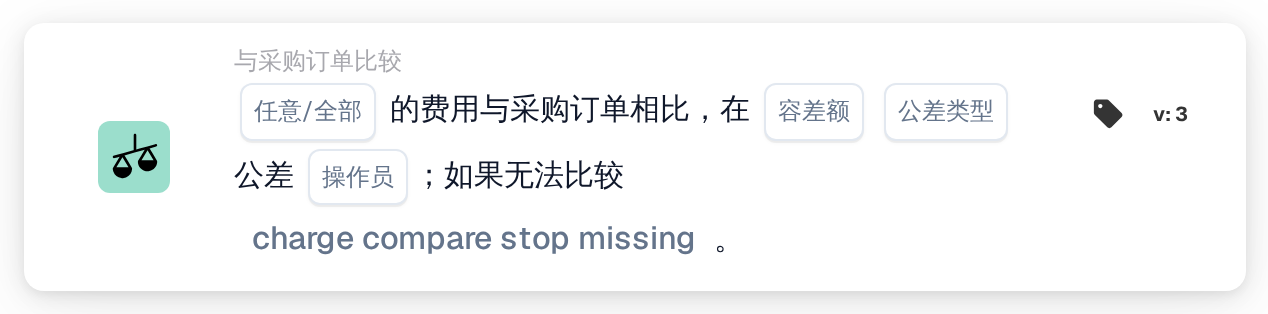
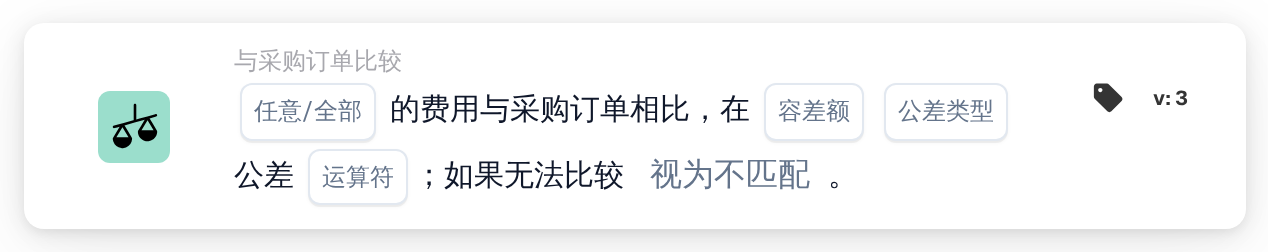
[Documentation_Workflow_Cards] [DRFS-871] add compare charges to po v4

diff --git a/public_docs/administration-and-setup/workflow/cards-overview/and/compare-with-purchase-order/any-all-charges.md b/public_docs/administration-and-setup/workflow/cards-overview/and/compare-with-purchase-order/any-all-charges.md
@@ -4,6 +4,8 @@
 
 <figure><img src="../../../../../.gitbook/assets/workflow_card_condition_compare_charges_to_po_v3-zh-cn.png" alt="任意 / 全部费用, 版本 3" width="634"><figcaption><p>版本 3</p></figcaption></figure>
 
+<figure><img src="../../../../../.gitbook/assets/workflow_card_condition_compare_charges_to_po_v4-zh-cn.png" alt="与采购订单比较：任意/全部 的费用与采购订单相比，在 容差额 公差类型 公差 运算符；0.00 的费用也会进行比较；如果无法比较 视为不匹配, 版本 4" width="634"><figcaption><p>版本 4</p></figcaption></figure>
+
 ## **用途：**
 
 此工作流卡片会在设定的容差范围内，将文档上的附加费用与匹配的采购订单上的附加费用进行比较。它要回答一个问题：文档与采购订单上的附加费用是否一致？采购订单匹配所配对的每笔费用都会参与比较，因此无需在卡片上指定字段名称。
@@ -31,8 +33,8 @@
    * **选项**：
      * **百分比**：采购订单费用的百分比。
      * **数值**：固定金额。
-5. **缺少数据时的行为（仅限版本 3）：**
-   * **说明**：当费用只存在于文档或采购订单其中一侧、没有对应项可供比较时的处理方式。此选项位于版本 3 句子的末尾。
+5. **缺少数据时的行为（版本 3 和 4）：**
+   * **说明**：当费用只存在于文档或采购订单其中一侧、没有对应项可供比较时的处理方式。此选项位于句子的末尾。
    * **选项**：
      * **视为不匹配**：工作流停止。这是默认选项。
      * **忽略并视为匹配**：工作流继续，视同该费用一致。
@@ -43,7 +45,7 @@
 
 1. **卡片需要匹配的采购订单。** 如果没有匹配的采购订单，卡片会立即停止并报告缺少数据。
 2. **卡片读取容差**，即卡片上设置的**容差金额**和**容差类型**。
-3. **版本 3 会将每个匹配的采购订单行归入以下四种情况之一**，判断依据仅为两侧是否存在任何费用：两侧都有费用、两侧都没有费用、只有文档有费用，或只有采购订单有费用。如果无法根据文档上的采购订单数据确定某一行，说明存在数据错误，卡片会停止。
+3. **版本 3 和 4 会将每个匹配的采购订单行归入以下四种情况之一**：两侧都有费用、两侧都没有费用、只有文档有费用，或只有采购订单有费用。版本 3 判断依据仅为两侧是否存在高于 0.00 的费用。版本 4 会查看每一对费用，并将 0.00 视为一个数值；只有完全没有金额的费用才算缺失。请参阅下文的**版本差异**。如果无法根据文档上的采购订单数据确定某一行，说明存在数据错误，卡片会停止。
 4. **只在一侧出现费用时，整个卡片的结果就此确定。** 只要有一条匹配行在一侧有费用而另一侧没有费用，**缺少数据时的行为**就会决定结果，并且不会比较任何费用，包括正确配对行上的费用。运算符和容差都不会参与判断。
 5. **如果所有行的两侧都没有费用**，则两侧都确认没有附加费用。**范围外**运算符不满足条件，因为没有任何差异超出容差，因此工作流会停止。其他运算符则会将这种一致视为满足条件，工作流继续。此时**缺少数据时的行为**不起作用。
 6. **否则，卡片会逐笔比较费用**，将文档金额与采购订单金额按运算符和容差进行比较。如果费用金额不是数字，卡片会因缺少数据而停止。
@@ -57,7 +59,7 @@
 
 ## **设置和配置：**
 
-在采购订单匹配之后添加此卡片作为 And 条件。选择必须满足比较条件的是全部费用还是任意费用，选择**范围内**或**范围外**运算符，并输入容差金额和类型。在版本 3 中，还要选择当费用只出现在一侧时的处理方式。
+在采购订单匹配之后添加此卡片作为 And 条件。选择必须满足比较条件的是全部费用还是任意费用，选择**范围内**或**范围外**运算符，并输入容差金额和类型。在版本 3 和 4 中，还要选择当费用只出现在一侧时的处理方式。
 
 如需在不等待文档的情况下试用配置，请在 Workflow Builder 中打开卡片菜单，选择**测试卡片**，选取文档，然后选择**在文档上测试**。卡片日志会列出每笔已比较的费用及其两个金额、使用的运算符和容差；如果费用只出现在一侧，日志还会记录用于确定结果的**缺少数据时的行为**设置。
 
@@ -71,9 +73,25 @@
 
 如果订单确认单上有一笔运费，而采购订单上没有，则运算符不再适用。选择**视为不匹配**时，工作流会停止，以便有人检查为何费用只出现在一侧。
 
+如果订单确认单上的运费显示为 0.00，而采购订单上为 204.00，版本 4 会比较这两个金额，工作流会因条件未满足而停止。版本 3 则会将 0.00 视为“文档上没有费用”，并由**缺少数据时的行为**决定结果。
+
 ## **版本差异：**
 
-新卡片使用版本 3。现有工作流仍支持版本 2。两个版本都会逐笔比较费用，并使用**任意 / 全部**设置汇总整个文档的结果，但版本 2 没有情况分类，因此当费用没有同时出现在两侧时，处理方式会有所不同：
+新卡片使用版本 4。现有工作流仍支持版本 2 和 3。
+
+### 版本 4 与版本 3 的比较
+
+这两个版本的设置和步骤相同，唯一的区别在于如何处理 0.00 的费用：
+
+* **版本 3 将 0.00 视为没有费用。** 文档费用 0.00 与采购订单费用 204.00 配对时，会被视为“采购订单有费用，文档没有费用”，因此由**缺少数据时的行为**决定结果，金额永远不会被比较。选择**忽略并视为匹配**时，即使金额不同，工作流也会继续。
+* **版本 4 将 0.00 作为金额进行比较。** 同一对费用会像其他费用一样进行比较：0.00 与 204.00 的差异不在容差范围内，因此工作流会因条件未满足而停止。两侧均为 0.00 的费用对也会进行比较，结果为一致。
+* **在版本 4 中，没有金额的费用仍视为缺失。** 如果一对费用中的一侧完全没有金额，例如采购订单上不存在的费用，则与版本 3 一样，由**缺少数据时的行为**决定结果。
+
+如需在现有工作流中获得此行为，请将版本 3 卡片替换为版本 4 卡片，并设置相同的值。
+
+### 版本 2
+
+版本 2 同样会逐笔比较费用，并使用**任意 / 全部**设置汇总整个文档的结果，但它没有情况分类，因此当费用没有同时出现在两侧时，处理方式会有所不同：
 
 * 版本 2 没有**缺少数据时的行为**选项。其配置句子以容差类型结束。
 * 版本 2 不会对匹配的行进行分类，因此无法识别只存在于一侧的费用。它会将实际存在的金额与缺失一侧的 0.00 进行比较，并由运算符决定结果：**范围内**不满足条件，工作流停止；**范围外**满足条件，工作流继续。卡片日志会显示与 0.00 的比较结果。
@@ -81,4 +99,4 @@
 
 ## **结论：**
 
-“任意 / 全部费用”卡片可自动检查已开票或已确认的附加费用是否与订购的附加费用一致。版本 3 会将两侧都没有费用视为一致，因此没有附加费用的文档无需人工干预即可通过；只出现在一侧的费用则会被拦截以供审核，除非明确允许这种情况。
+“任意 / 全部费用”卡片可自动检查已开票或已确认的附加费用是否与订购的附加费用一致。版本 3 和 4 会将两侧都没有费用视为一致，因此没有附加费用的文档无需人工干预即可通过；只出现在一侧的费用则会被拦截以供审核，除非明确允许这种情况。
